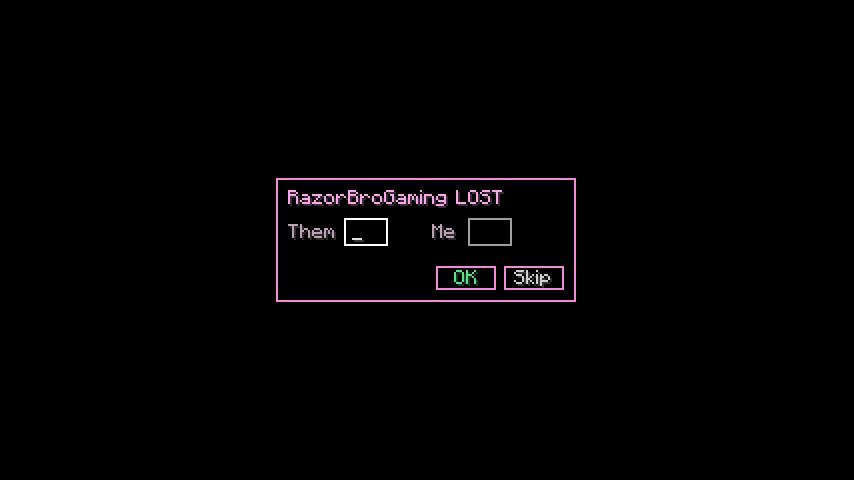
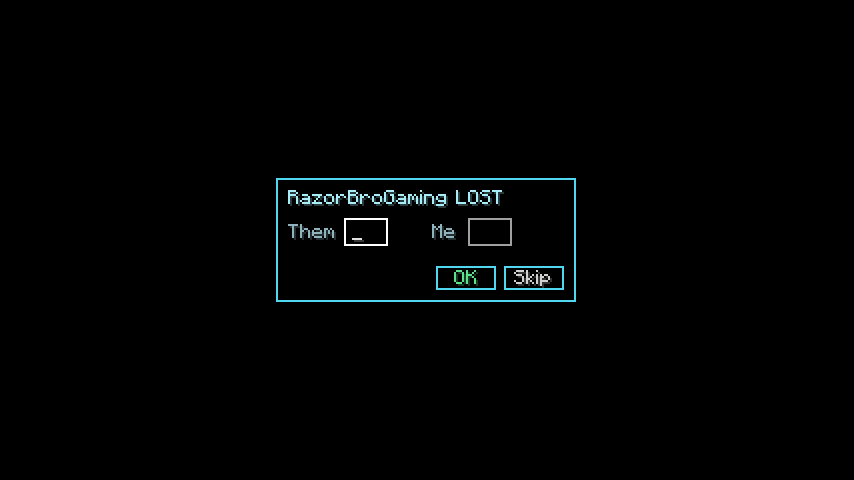
Add color themes (default Aqua); click Profit to cycle
Aqua, Purple, Gold, Red, Lime, Pink and White, saved in config. Game test
screenshots every theme plus the elytra-price and score boxes.

Claude-Session: https://claude.ai/code/session_01PoLsKm9a5sHzeNbXLJUbZc

diff --git a/src/main/java/com/donutgamble/client/QueueOverlay.java b/src/main/java/com/donutgamble/client/QueueOverlay.java
@@ -106,24 +106,24 @@ final class QueueOverlay {
 
 		long net = state.ledger.sessionStats().net();
 		int y = PAD;
-		ctx.drawTextWithShadow(tr, "Profit ", PAD, y, Colors.PINK);
+		ctx.drawTextWithShadow(tr, "Profit ", PAD, y, Colors.text());
 		ctx.drawTextWithShadow(tr, AmountParser.formatSigned(net), PAD + tr.getWidth("Profit "), y, Colors.profit(net));
-		hits.add(new Hit(PAD, y - 1, width - 2 * PAD, ROW, null, state::newSession));
+		hits.add(new Hit(PAD, y - 1, width - 2 * PAD, ROW, state::nextTheme, state::newSession));
 		y += ROW;
 
 		if (shownQueue.isEmpty()) {
-			ctx.drawTextWithShadow(tr, "> waiting for /pay...", PAD, y, Colors.MUTED);
+			ctx.drawTextWithShadow(tr, "> waiting for /pay...", PAD, y, Colors.muted());
 			y += ROW;
 		}
 		for (int i = 0; i < shownQueue.size(); i++) {
 			Bet b = shownQueue.get(i);
 			String name = "> " + (i + 1) + " " + b.player;
-			ctx.drawTextWithShadow(tr, name, PAD, y, Colors.PINK);
+			ctx.drawTextWithShadow(tr, name, PAD, y, Colors.text());
 			hits.add(new Hit(PAD, y - 1, tr.getWidth(name), ROW, null, () -> state.dismiss(b)));
-			ctx.drawTextWithShadow(tr, money(b.amount), amountX, y, Colors.PINK);
+			ctx.drawTextWithShadow(tr, money(b.amount), amountX, y, Colors.text());
 
 			String game = shortName(b.game);
-			ctx.drawTextWithShadow(tr, game, gameX, y, Colors.MUTED);
+			ctx.drawTextWithShadow(tr, game, gameX, y, Colors.muted());
 			hits.add(new Hit(gameX, y - 1, tr.getWidth("Paper"), ROW, () -> state.cycleGame(b), null));
 
 			int lx = lettersX;
@@ -136,13 +136,13 @@ final class QueueOverlay {
 		}
 
 		if (moreQueue > 0) {
-			ctx.drawTextWithShadow(tr, "  +" + moreQueue + " more waiting", PAD, y, Colors.MUTED);
+			ctx.drawTextWithShadow(tr, "  +" + moreQueue + " more waiting", PAD, y, Colors.muted());
 			y += ROW;
 		}
 
 		for (Bet b : shownOwed) {
-			ctx.drawTextWithShadow(tr, "Owe ", PAD, y, Colors.MUTED);
-			ctx.drawTextWithShadow(tr, b.player, PAD + tr.getWidth("Owe "), y, Colors.PINK);
+			ctx.drawTextWithShadow(tr, "Owe ", PAD, y, Colors.muted());
+			ctx.drawTextWithShadow(tr, b.player, PAD + tr.getWidth("Owe "), y, Colors.text());
 			ctx.drawTextWithShadow(tr, owedLabel(b), amountX, y, Colors.GOLD);
 			int lx = lettersX;
 			if (!b.payoutIsElytra()) {
@@ -152,7 +152,7 @@ final class QueueOverlay {
 			y += ROW;
 		}
 		if (moreOwed > 0) {
-			ctx.drawTextWithShadow(tr, "  +" + moreOwed + " more owed", PAD, y, Colors.MUTED);
+			ctx.drawTextWithShadow(tr, "  +" + moreOwed + " more owed", PAD, y, Colors.muted());
 		}
 	}
 

diff --git a/src/main/java/com/donutgamble/client/Colors.java b/src/main/java/com/donutgamble/client/Colors.java
@@ -1,18 +1,65 @@
 package com.donutgamble.client;
 
-/** ARGB palette: see-through box, pink outline and text. */
+import java.util.Locale;
+
+/** ARGB palette. Outline and text follow the chosen {@link Theme}; result colors stay fixed. */
 final class Colors {
+	enum Theme {
+		AQUA("Aqua", 0xFF4FD8F0, 0xFFA8ECF7, 0xFF8FB3BD),
+		PURPLE("Purple", 0xFFB07CFF, 0xFFD2B8FF, 0xFFA99BBF),
+		GOLD("Gold", 0xFFFFC547, 0xFFFFE19A, 0xFFBFB08F),
+		RED("Red", 0xFFFF5A5A, 0xFFFFB0B0, 0xFFBF9898),
+		LIME("Lime", 0xFF7CFF6B, 0xFFC8FFBE, 0xFF9CBF96),
+		PINK("Pink", 0xFFF08CD6, 0xFFF7A8E6, 0xFFB9A3B5),
+		WHITE("White", 0xFFFFFFFF, 0xFFFFFFFF, 0xFFB0B0B0);
+
+		final String displayName;
+		final int outline;
+		final int text;
+		final int muted;
+
+		Theme(String displayName, int outline, int text, int muted) {
+			this.displayName = displayName;
+			this.outline = outline;
+			this.text = text;
+			this.muted = muted;
+		}
+
+		Theme next() {
+			return values()[(ordinal() + 1) % values().length];
+		}
+
+		static Theme parse(String name) {
+			try {
+				return valueOf(name.toUpperCase(Locale.ROOT));
+			} catch (IllegalArgumentException | NullPointerException e) {
+				return AQUA;
+			}
+		}
+	}
+
 	static final int BG = 0x66000000;
 	static final int BOX_BG = 0xCC000000;
-	static final int OUTLINE = 0xFFF08CD6;
-	static final int PINK = 0xFFF7A8E6;
-	static final int MUTED = 0xFFB9A3B5;
 	static final int GOLD = 0xFFFFCF5C;
 	static final int GREEN = 0xFF5CE08A;
 	static final int RED = 0xFFFF6B6B;
 	static final int GREY = 0xFFD0D0D0;
 
+	static Theme theme = Theme.AQUA;
+
 	private Colors() {
+	}
+
+	static int outline() {
+		return theme.outline;
+	}
+
+	static int text() {
+		return theme.text;
+	}
+
+	static int muted() {
+		return theme.muted;
 	}
 
 	static int profit(long value) {

diff --git a/src/gametest/java/com/donutgamble/client/DonutGambleClientGameTest.java b/src/gametest/java/com/donutgamble/client/DonutGambleClientGameTest.java
@@ -55,8 +55,16 @@ public class DonutGambleClientGameTest implements FabricClientGameTest {
 		});
 
 		context.setScreen(() -> new OverlayPreviewScreen());
+		for (Colors.Theme theme : Colors.Theme.values()) {
+			context.runOnClient(client -> DonutGambleClient.state.setTheme(theme));
+			context.waitTicks(3);
+			context.takeScreenshot("donutgamble-queue-" + theme.name().toLowerCase(java.util.Locale.ROOT));
+		}
+		context.runOnClient(client -> DonutGambleClient.state.setTheme(Colors.Theme.AQUA));
+
+		context.runOnClient(client -> client.setScreen(ScoreScreen.elytraPrice(DonutGambleClient.state, DonutGambleClient.state.ledger.pending().get(2))));
 		context.waitTicks(5);
-		context.takeScreenshot("donutgamble-queue");
+		context.takeScreenshot("donutgamble-elytra");
 
 		context.runOnClient(client -> {
 			GambleState state = DonutGambleClient.state;

diff --git a/src/main/java/com/donutgamble/client/ScoreScreen.java b/src/main/java/com/donutgamble/client/ScoreScreen.java
@@ -97,12 +97,12 @@ final class ScoreScreen extends Screen {
 		int x = (width - W) / 2;
 		int y = (height - H) / 2;
 		Draw.box(ctx, x, y, x + W, y + H, Colors.BOX_BG);
-		ctx.drawTextWithShadow(textRenderer, heading, x + 6, y + 6, Colors.PINK);
+		ctx.drawTextWithShadow(textRenderer, heading, x + 6, y + 6, Colors.text());
 		if (elytra) {
-			ctx.drawTextWithShadow(textRenderer, "Elytra price", x + 6, y + 23, Colors.MUTED);
+			ctx.drawTextWithShadow(textRenderer, "Elytra price", x + 6, y + 23, Colors.muted());
 		} else {
-			ctx.drawTextWithShadow(textRenderer, "Them", x + 6, y + 23, Colors.MUTED);
-			ctx.drawTextWithShadow(textRenderer, "Me", x + 78, y + 23, Colors.MUTED);
+			ctx.drawTextWithShadow(textRenderer, "Them", x + 6, y + 23, Colors.muted());
+			ctx.drawTextWithShadow(textRenderer, "Me", x + 78, y + 23, Colors.muted());
 		}
 	}
 

diff --git a/src/main/java/com/donutgamble/client/GambleState.java b/src/main/java/com/donutgamble/client/GambleState.java
@@ -23,6 +23,7 @@ public final class GambleState {
 		config = storage.loadConfig();
 		ledger = storage.loadLedger();
 		detector = new PaymentDetector(config.extraPayPatterns);
+		Colors.theme = Colors.Theme.parse(config.theme);
 		save();
 	}
 
@@ -106,6 +107,16 @@ public final class GambleState {
 
 	public void setElytraPrice(long price) {
 		config.elytraPrice = price;
+		save();
+	}
+
+	public void nextTheme() {
+		setTheme(Colors.theme.next());
+	}
+
+	void setTheme(Colors.Theme theme) {
+		Colors.theme = theme;
+		config.theme = theme.name();
 		save();
 	}
 

diff --git a/src/main/java/com/donutgamble/client/Draw.java b/src/main/java/com/donutgamble/client/Draw.java
@@ -9,6 +9,6 @@ final class Draw {
 	/** See-through box with a 1px pink outline, like a scoreboard. */
 	static void box(DrawContext ctx, int x1, int y1, int x2, int y2, int bg) {
 		ctx.fill(x1, y1, x2, y2, bg);
-		ctx.drawStrokedRectangle(x1, y1, x2 - x1, y2 - y1, Colors.OUTLINE);
+		ctx.drawStrokedRectangle(x1, y1, x2 - x1, y2 - y1, Colors.outline());
 	}
 }

diff --git a/src/main/java/com/donutgamble/core/GambleConfig.java b/src/main/java/com/donutgamble/core/GambleConfig.java
@@ -25,6 +25,8 @@ public class GambleConfig {
 	public int hudX = 6;
 	public int hudY = 6;
 	public float hudScale = 1.0f;
+	/** Aqua, Purple, Gold, Red, Lime, Pink or White. Click "Profit" in game to cycle. */
+	public String theme = "AQUA";
 
 	public Game lastGame = Game.PAPER;
 }

diff --git a/README.md b/README.md
@@ -4,7 +4,7 @@ A client-side Fabric mod for **Minecraft 1.21.11** that tracks gamble bets on Do
 while you stream. When someone `/pay`s you, the bet joins an on-screen queue. You click
 who won, and your profit updates live.
 
-![Queue](docs/screenshots/queue.png)
+![Queue](docs/screenshots/queue-aqua.png)
 
 ## Install
 
@@ -36,6 +36,7 @@ To click the letters, open chat (`T`) or press `Insert` to free the mouse.
 | **P** | Types `/pay <name> <amount>` in chat (2x their bet). You press Enter to send. |
 | **D** | Done: they've been paid, or their elytra is in their order. Money rows also clear on their own when you `/pay` them the exact amount. |
 | Right-click a name | Remove a payment that wasn't a bet. |
+| Click **Profit** | Change the color (Aqua, Purple, Gold, Red, Lime, Pink, White). |
 | Right-click **Profit** | Start a new session (profit back to 0 for a new stream). |
 
 | Key | What it does |
@@ -55,7 +56,7 @@ Everything is saved in `.minecraft/config/donutgamble/` after every change:
 
 - `ledger.json`: every bet, its result and whether it's been paid.
 - `config.json`: settings. You can change game ranges, `winMultiplier`, HUD position
-  (`hudX`, `hudY`, `hudScale`) and `extraPayPatterns`.
+  (`hudX`, `hudY`, `hudScale`), `theme` and `extraPayPatterns`.
 
 ### Payment messages
 
